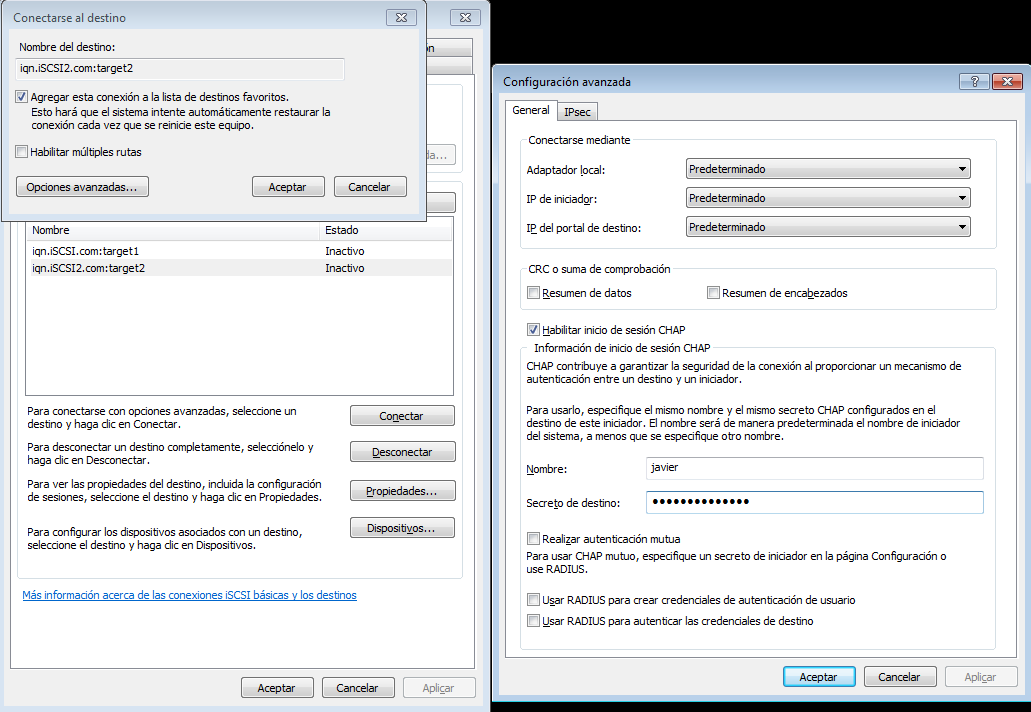
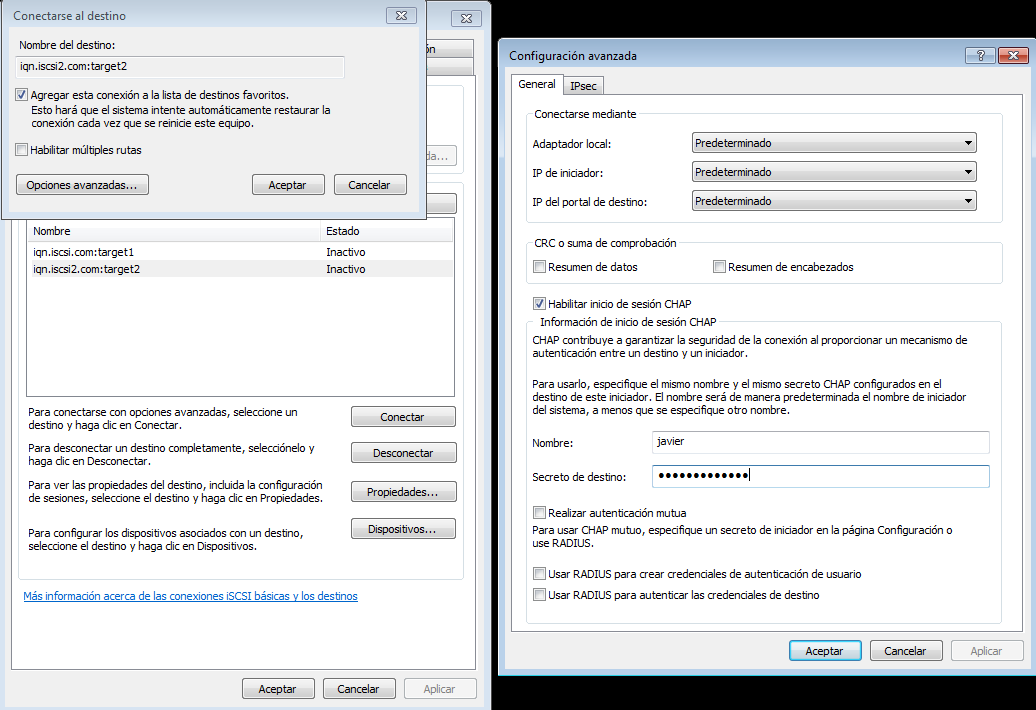
cambios

Changed region(s): [[0.0, 0.0, 1.0, 1.0], [0.0, 0.3099, 0.4035, 0.8676], [0.0, 0.0, 0.3104, 0.2789]]

diff --git a/content/hlc_utilización_de_iSCSI_en_Linux_y_Windows.md b/content/hlc_utilización_de_iSCSI_en_Linux_y_Windows.md
@@ -82,7 +82,7 @@ root@servidor:~# lvcreate -L 500M -n vollog1 vollogs
 Bien, una vez tenemos el volumen lógico creado, vamos a pasar con la configuración del **target**, es decir, del servidor. Su fichero de configuración será creado en la ruta `/etc/tgt/conf.d/` y recibirá el nombre `target1.conf`. En él debemos añadir el siguiente bloque que será el encargado de definir nuestro *target*.
 
 <pre>
-<\target iqn.iSCSI.com:target1\>
+<\target iqn.iscsi.com:target1\>
     backing-store /dev/vollogs/vollog1
 <\/target\>
 </pre>
@@ -99,7 +99,7 @@ Reiniciado el servicio, debe haber detectado el nuevo *target iSCSI*, así que v
 
 <pre>
 root@servidor:~# tgtadm --lld iscsi --op show --mode target
-Target 1: iqn.iSCSI.com:target1
+Target 1: iqn.iscsi.com:target1
     System information:
         Driver: iscsi
         State: ready
@@ -162,7 +162,7 @@ En teoría, ya nuestro cliente debe conectar con nuestro *target* que se encuent
 
 <pre>
 root@clientelinux:~# iscsiadm -m discovery -t st -p 192.168.0.57
-192.168.0.57:3260,1 iqn.iSCSI.com:target1
+192.168.0.57:3260,1 iqn.iscsi.com:target1
 </pre>
 
 Podemos apreciar como efectivamente nos reporta la información correcta del *target* configurado anteriormente, por lo que obviamente puede conectar con él.
@@ -170,15 +170,15 @@ Podemos apreciar como efectivamente nos reporta la información correcta del *ta
 El siguiente paso sería conectarnos al propio *target*. Para elo utilizaremos el siguiente comando:
 
 <pre>
-iscsiadm -m node -T iqn.iSCSI.com:target1 --portal "192.168.0.57" --login
+iscsiadm -m node -T iqn.iscsi.com:target1 --portal "192.168.0.57" --login
 </pre>
 
 El resultado sería el siguiente:
 
 <pre>
-root@clientelinux:~# iscsiadm -m node -T iqn.iSCSI.com:target1 --portal "192.168.0.57" --login
-Logging in to [iface: default, target: iqn.iSCSI.com:target1, portal: 192.168.0.57,3260] (multiple)
-Login to [iface: default, target: iqn.iSCSI.com:target1, portal: 192.168.0.57,3260] successful.
+root@clientelinux:~# iscsiadm -m node -T iqn.iscsi.com:target1 --portal "192.168.0.57" --login
+Logging in to [iface: default, target: iqn.iscsi.com:target1, portal: 192.168.0.57,3260] (multiple)
+Login to [iface: default, target: iqn.iscsi.com:target1, portal: 192.168.0.57,3260] successful.
 
 root@clientelinux:~# lsblk
 NAME   MAJ:MIN RM  SIZE RO TYPE MOUNTPOINT
@@ -257,7 +257,7 @@ Y sí, estamos manejando un dispositivo de manera remota, con el que podemos int
 Este proceso es bastante sencillo, y como es de esperar, se llevará a cabo completamente en la parte del cliente. En primer lugar, debemos indicarle a `open-iscsi` que realice la conexión a dicho *target* de manera automática durante el arranque del sistema, ejecutando para ello el comando:
 
 <pre>
-iscsiadm -m node -T iqn.iSCSI.com:target1 --portal "192.168.0.57" -o update -n node.startup -v automatic
+iscsiadm -m node -T iqn.iscsi.com:target1 --portal "192.168.0.57" -o update -n node.startup -v automatic
 </pre>
 
 Posteriormente, debemos dirigirnos a la ruta `/etc/systemd/system/` y crear un nuevo fichero en el que definiremos la nueva unidad de **systemd**. En mi caso, creo el fichero `/etc/systemd/system/iSCSI.mount`, y su contenido es el siguiente:
@@ -344,7 +344,7 @@ En este caso, no utilizaré volúmenes lógicos como anteriormente.
 Al igual que en primer apartado, para crear un nuevo *target* en el **servidor**, deberemos crear un nuevo fichero en la ruta `/etc/tgt/conf.d/`, este recibirá el nombre `target2.conf` y su contenido será el siguiente:
 
 <pre>
-<\target iqn.iSCSI2.com:target2\>
+<\target iqn.iscsi2.com:target2\>
     backing-store /dev/sdc
     backing-store /dev/sdd
     incominguser javier passwordjavier
@@ -363,7 +363,7 @@ Reiniciado el servicio, debe haber detectado el nuevo *target iSCSI*, así que v
 
 <pre>
 root@servidor:~# tgtadm --lld iscsi --op show --mode target
-Target 1: iqn.iSCSI.com:target1
+Target 1: iqn.iscsi.com:target1
     System information:
         Driver: iscsi
         State: ready
@@ -404,7 +404,7 @@ Target 1: iqn.iSCSI.com:target1
     Account information:
     ACL information:
         ALL
-Target 2: iqn.iSCSI2.com:target2
+Target 2: iqn.iscsi2.com:target2
     System information:
         Driver: iscsi
         State: ready
@@ -471,5 +471,7 @@ Añadido nuestro servidor, si nos dirigimos en la pestaña **Destinos**, podremo
 ![.](images/hlc_utilización_de_iSCSI_en_Linux_y_Windows/windows2.png)
 
 Tras ello, podremos disfrutar de nuestro cliente *Windows* conectado a nuestro *target*.
+
+![.](images/hlc_utilización_de_iSCSI_en_Linux_y_Windows/windows3.png)
 
 Con esto, ya hemos visto todo el contenido referente a este *post*, por lo que finalizaría aquí.
